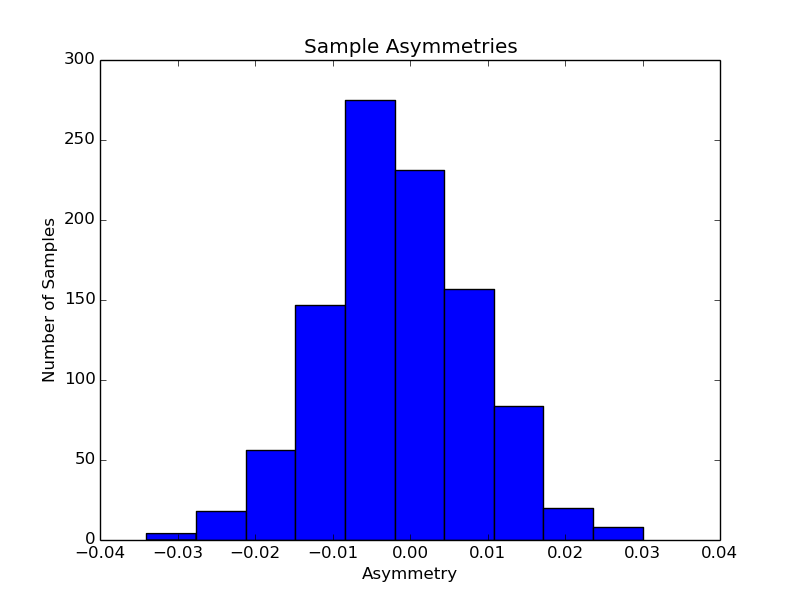
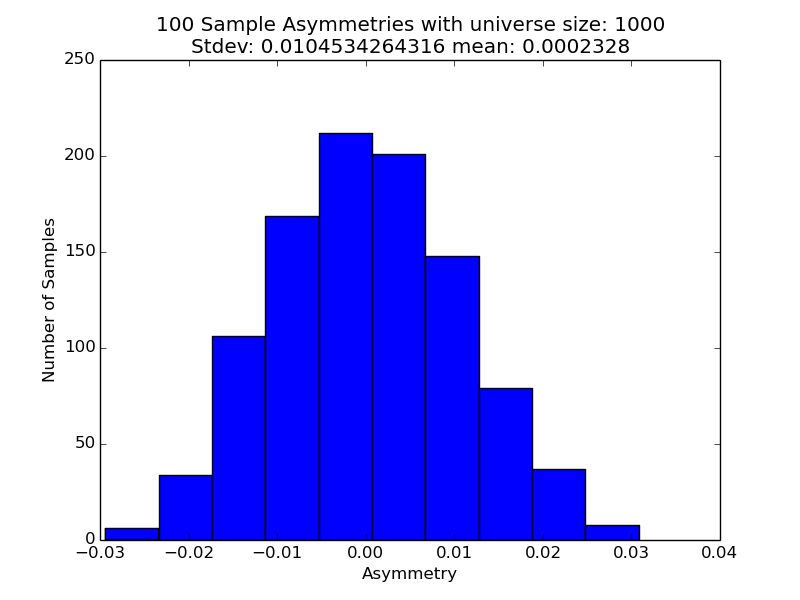
Better titles in plots

diff --git a/simulationSampleTaker.py b/simulationSampleTaker.py
@@ -75,7 +75,9 @@ def main():
             " the standard deviation of samples is:\n" + str(np.std(my_list)))
 
     plt.hist(my_list)
-    plt.title("Sample Asymmetries")
+    plt.title(str(SAMPLE_DIM) + " Sample Asymmetries with universe size: " 
+            + str(UNI_DIM) + "\nStdev: " + str(np.std(my_list))
+            + " mean: " + str(np.mean(my_list)))
     plt.xlabel("Asymmetry")
     plt.ylabel("Number of Samples")
     plt.savefig(str(SAMPLE_DIM) + "_sample.png")
